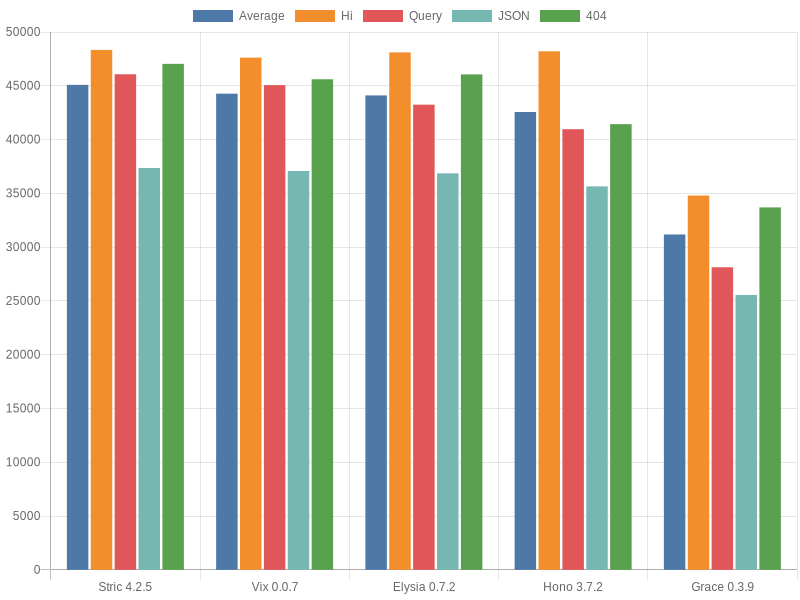
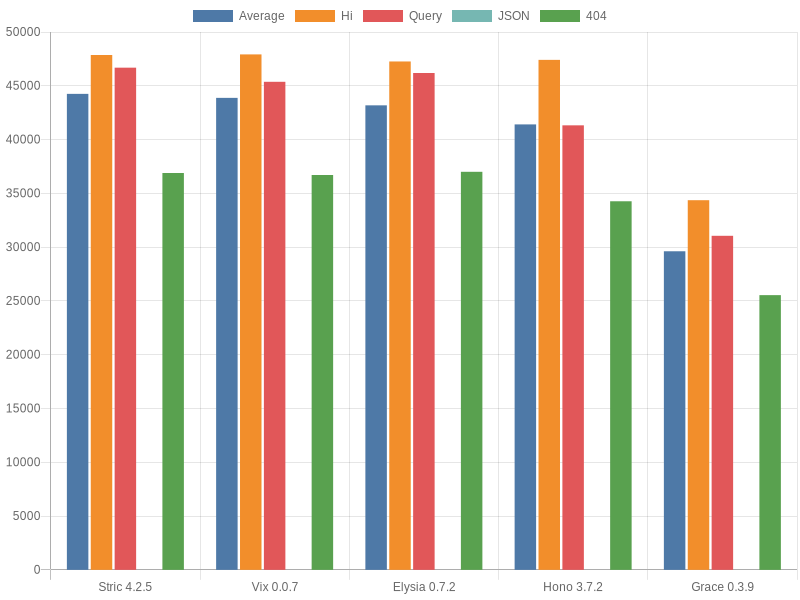
Update

diff --git a/src/Grace/index.ts b/src/Grace/index.ts
@@ -38,21 +38,6 @@ createGrace()
         },
     }))
     .registerRoute(createRoute({
-        method: 'GET',
-        path: '/api/hi',
-        schema: {
-            response: {
-                200: t.String()
-            }
-        },
-        handler: async () => {
-            return {
-                code: 200,
-                body: 'Welcome'
-            }
-        },
-    }))
-    .registerRoute(createRoute({
         method: 'POST',
         path: '/api/json',
         schema: {
@@ -64,21 +49,6 @@ createGrace()
             return {
                 code: 200,
                 body: c.body
-            }
-        },
-    }))
-    .registerRoute(createRoute({
-        method: 'GET',
-        path: '/a/b',
-        schema: {
-            response: {
-                404: t.String()
-            }
-        },
-        handler: async () => {
-            return {
-                code: 404,
-                body: 'Not Found'
             }
         },
     }))

diff --git a/config.ts b/config.ts
@@ -17,13 +17,6 @@ export default {
             description: 'Should return `Hi` as a response.'
         },
         {
-            path: '/api/hi',
-            expect: {
-                body: 'Welcome'
-            },
-            description: 'Should return `Welcome` as a response.'
-        },
-        {
             path: `/id/${randomNum}?name=${randomString}`,
             expect: {
                 body: `${randomNum} ${randomString}`
@@ -31,7 +24,7 @@ export default {
             description: 'Should return the `id` parameter value and the query value, for example `1 a` when the request path is `/id/1?name=a`.'
         },
         {
-            path: '/a/b',
+            path: '/api/js',
             expect: {
                 statusCode: 404
             },

diff --git a/src/Stric/index.ts b/src/Stric/index.ts
@@ -1,11 +1,10 @@
 import { Router as Stric, macro, wrap } from '@stricjs/router';
 import { qs } from '@stricjs/utils';
 
-const parse = qs.searchKey('name'), { json } = wrap;
+const parse = qs.searchKey('name');
 
 export default new Stric()
     .get('/', macro('Hi'))
-    .get('/api/hi', macro('Welcome'))
-    .post('/api/json', c => c.json().then(json))
+    .post('/api/json', c => c.json().then(wrap.json))
     .get('/id/:id', c => new Response(c.params.id + ' ' + parse(c)))
     .use(404);

diff --git a/src/Vix/index.ts b/src/Vix/index.ts
@@ -11,11 +11,6 @@ export default {
                 r: () => new Response('Hi')
             },
             {
-                path: '/api/hi',
-                type: 'response',
-                r: () => new Response('Welcome')
-            },
-            {
                 path: '/id/:id',
                 query: {
                     only: ['name']

diff --git a/src/Hono/index.ts b/src/Hono/index.ts
@@ -2,6 +2,5 @@ import { Hono } from 'hono';
 
 export default new Hono()
     .get('/', c => c.text('Hi'))
-    .get('/api/hi', c => c.text('Welcome'))
     .get('/id/:id', c => c.text(c.req.param('id') + ' ' + c.req.query('name')))
     .post('/api/json', c => c.req.json().then(c.json))

diff --git a/src/Elysia/index.ts b/src/Elysia/index.ts
@@ -3,6 +3,5 @@ import Elysia from 'elysia';
 new Elysia()
     .get('/', () => 'Hi')
     .get('/id/:id', c => c.params.id + ' ' + c.query.name)
-    .get('/api/hi', () => 'Welcome')
     .post('/api/json', c => c.body, { type: 'json' })
     .listen(3000);

diff --git a/results/index.md b/results/index.md
@@ -1,6 +1,6 @@
 Bun: 1.0.3
 
-Tested at: 09:31, September 28th, 2023
+Tested at: 21:21, September 28th, 2023
 
 ## OS Details
 - Cores: 8
@@ -11,11 +11,9 @@ Tested at: 09:31, September 28th, 2023
 ## Tests
 ### GET `/`
 Should return `Hi` as a response.
-### GET `/api/hi`
-Should return `Welcome` as a response.
-### GET `/id/65?name=fvN`
+### GET `/id/60?name=EHb`
 Should return the `id` parameter value and the query value, for example `1 a` when the request path is `/id/1?name=a`.
-### GET `/a/b`
+### GET `/api/js`
 Should return a response with `404` status code.
 ### POST `/api/json`
 Return the request body with `Content-Type` set to `application/json`.
@@ -26,10 +24,10 @@ Return the request body with `Content-Type` set to `application/json`.
 - Results are measured in requests per second.
 
 ## Results
-| Name | Average | GET `/` | GET `/api/hi` | GET `/id/81?name=weD` | GET `/a/b` | POST `/api/json` |
-|  :---: | :---: | :---: | :---: | :---: | :---: | :---: |
-| [Stric 4.2.5](/results/main/Stric) | 45084.81 | 48332.75 | 46623.88 | 46072.62 | 47038.54 | 37356.26 |
-| [Vix 0.0.7](/results/main/Vix) | 44269.08 | 47618.59 | 45978.74 | 45058.74 | 45608.76 | 37080.58 |
-| [Elysia 0.7.2](/results/main/Elysia) | 44108.86 | 48103.29 | 46272.13 | 43246.88 | 46058.33 | 36863.69 |
-| [Hono 3.7.2](/results/main/Hono) | 42564.88 | 48204.41 | 46573.03 | 40967.01 | 41434.29 | 35645.65 |
-| [Grace 0.3.9](/results/main/Grace) | 31179.96 | 34796.91 | 33720.99 | 28131.19 | 33694.72 | 25555.97 |
+| Name | Average | GET `/` | GET `/id/89?name=mUS` | GET `/api/js` | POST `/api/json` |
+|  :---: | :---: | :---: | :---: | :---: | :---: |
+| [Stric 4.2.5](/results/main/Stric) | 44251.33 | 47859.33 | 45572.01 | 46682.76 | 36891.21 |
+| [Vix 0.0.7](/results/main/Vix) | 43879.45 | 47919.28 | 45519.21 | 45370.24 | 36709.08 |
+| [Elysia 0.7.2](/results/main/Elysia) | 43181.56 | 47263.61 | 42269.48 | 46189.10 | 37004.05 |
+| [Hono 3.7.2](/results/main/Hono) | 41409.74 | 47411.68 | 42644.72 | 41321.01 | 34261.54 |
+| [Grace 0.3.9](/results/main/Grace) | 29618.76 | 34362.32 | 27524.12 | 31053.27 | 25535.35 |

diff --git a/README.md b/README.md
@@ -47,10 +47,10 @@ See [configuration file](/config.ts) and the [type declarations](/lib/types.ts).
 ### Table 
 
 
-| Name | Average | GET `/` | GET `/api/hi` | GET `/id/81?name=weD` | GET `/a/b` | POST `/api/json` |
-|  :---: | :---: | :---: | :---: | :---: | :---: | :---: |
-| [Stric 4.2.5](/results/main/Stric) | 45084.81 | 48332.75 | 46623.88 | 46072.62 | 47038.54 | 37356.26 |
-| [Vix 0.0.7](/results/main/Vix) | 44269.08 | 47618.59 | 45978.74 | 45058.74 | 45608.76 | 37080.58 |
-| [Elysia 0.7.2](/results/main/Elysia) | 44108.86 | 48103.29 | 46272.13 | 43246.88 | 46058.33 | 36863.69 |
-| [Hono 3.7.2](/results/main/Hono) | 42564.88 | 48204.41 | 46573.03 | 40967.01 | 41434.29 | 35645.65 |
-| [Grace 0.3.9](/results/main/Grace) | 31179.96 | 34796.91 | 33720.99 | 28131.19 | 33694.72 | 25555.97 |
+| Name | Average | GET `/` | GET `/id/89?name=mUS` | GET `/api/js` | POST `/api/json` |
+|  :---: | :---: | :---: | :---: | :---: | :---: |
+| [Stric 4.2.5](/results/main/Stric) | 44251.33 | 47859.33 | 45572.01 | 46682.76 | 36891.21 |
+| [Vix 0.0.7](/results/main/Vix) | 43879.45 | 47919.28 | 45519.21 | 45370.24 | 36709.08 |
+| [Elysia 0.7.2](/results/main/Elysia) | 43181.56 | 47263.61 | 42269.48 | 46189.10 | 37004.05 |
+| [Hono 3.7.2](/results/main/Hono) | 41409.74 | 47411.68 | 42644.72 | 41321.01 | 34261.54 |
+| [Grace 0.3.9](/results/main/Grace) | 29618.76 | 34362.32 | 27524.12 | 31053.27 | 25535.35 |
